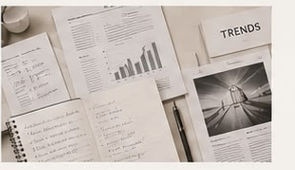
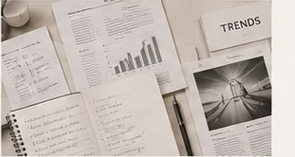
project1 p4/p5/hero: test box photos, hero sizing, creative image, trim bezels
- page4 THE TEST box: replace 6-photo grid with 2 stacked photos
  (group picture above, feedback form below), native aspects, drop 4 old
  PNGs; sync Sanity testPhotos 6->2 with same assets
- page1 hero: nudge heading down, step font size text-4xl/6xl -> 3xl/5xl
- page5 learnings: swap CREATIVE THINKING image to page5_creative_thinking
  (local + p5LearningImages fallback), remove page5_creative_fuji
- page5 learnings: trim baked-in white bezel bands from research/strategy/
  brand images (content-only rows, 0 residual)

diff --git a/src/pages/ProjectMarketingPage.tsx b/src/pages/ProjectMarketingPage.tsx
@@ -52,10 +52,6 @@ export const ProjectMarketingPage: React.FC = () => {
 
   // Page 4 test photos: Sanity may hydrate without `src`, so fall back to the local assets.
   const p4PhotoFallbacks = [
-    '/portfolio-assets/project-1/page4_product_display.png',
-    '/portfolio-assets/project-1/page4_consumer_interaction.png',
-    '/portfolio-assets/project-1/page4_fragrance_samples.png',
-    '/portfolio-assets/project-1/page4_feedback.png',
     '/portfolio-assets/project-1/page4_testing_setup.jpeg',
     '/portfolio-assets/project-1/page4_consumer_feedback.jpeg'
   ];
@@ -64,7 +60,7 @@ export const ProjectMarketingPage: React.FC = () => {
   const p5LearningImages = [
     '/portfolio-assets/project-1/page5_research_papers.png',
     '/portfolio-assets/project-1/page5_strategy_notebook.png',
-    '/portfolio-assets/project-1/page5_creative_fuji.png',
+    '/portfolio-assets/project-1/page5_creative_thinking.jpeg',
     '/portfolio-assets/project-1/page5_brand_bag.png'
   ];
 
@@ -112,8 +108,8 @@ export const ProjectMarketingPage: React.FC = () => {
           </div>
         </div>
         {/* Hero heading overlay — moved up (tighter top spacing) */}
-        <div className="max-w-4xl mx-auto text-center pt-0 -mt-2 sm:-mt-4">
-          <h1 className="font-serif-display font-bold text-[var(--c-ink)] leading-[1.02] tracking-tight text-4xl sm:text-6xl drop-shadow-[0_1px_0_rgba(255,255,255,0.35)]">
+        <div className="max-w-4xl mx-auto text-center pt-0 -mt-4 sm:-mt-8">
+          <h1 className="font-serif-display font-bold text-[var(--c-ink)] leading-[1.02] tracking-tight text-3xl sm:text-5xl drop-shadow-[0_1px_0_rgba(255,255,255,0.35)]">
             A New Dimension of Life Wear : UNIQLO Fragrances
           </h1>
         </div>
@@ -561,21 +557,21 @@ export const ProjectMarketingPage: React.FC = () => {
             <div className="grid grid-cols-1 lg:grid-cols-12 gap-8 items-start mb-10">
 
               {/* ------------------------------------------------------------- */}
-              {/* COLUMN 1: THE TEST (2x2 Photo Grid)                           */}
+              {/* COLUMN 1: THE TEST (Stacked: group picture, feedback form)    */}
               {/* ------------------------------------------------------------- */}
               <div className="lg:col-span-5 bg-white border-[1.5px] border-[var(--c-ink)] rounded-2xl p-6 paper-shadow">
                 <h3 className="font-mono-code text-sm font-bold uppercase tracking-wider text-[var(--c-ink)] mb-4 pb-2 border-b border-[var(--c-ink)]/15">
                   {u.p4TestHeader}
                 </h3>
 
-                <div className="grid grid-cols-2 gap-4">
+                <div className="grid grid-cols-1 gap-5">
                   {p4.testPhotos.map((photo, pIdx) => (
                     <div key={pIdx} className="space-y-1.5">
                       <PlaceholderImage
                         src={photo.src || p4PhotoFallbacks[pIdx]}
                         label={photo.caption}
                         alt={photo.caption}
-                        aspect="aspect-[4/5]"
+                        aspect={pIdx === 0 ? 'aspect-[1562/1600]' : 'aspect-[822/1166]'}
                       />
                       <span className="font-mono-code text-xs font-bold text-[var(--c-ink)] block leading-tight">
                         {photo.caption}

diff --git a/src/data/portfolioData.ts b/src/data/portfolioData.ts
@@ -334,33 +334,13 @@ export const portfolioData = {
       subtitle: "WE DIDN'T JUST CREATE IT, WE TESTED IT.",
       testPhotos: [
         {
-          src: "/portfolio-assets/project-1/page4_product_display.png",
-          caption: "Product Display",
-          desc: "Acrylic tester riser with fragrance bottles & branding"
-        },
-        {
-          src: "/portfolio-assets/project-1/page4_consumer_interaction.png",
-          caption: "Consumer Interaction",
-          desc: "Consumers exploring tester strips and sampling aromas"
-        },
-        {
-          src: "/portfolio-assets/project-1/page4_fragrance_samples.png",
-          caption: "Fragrance Samples",
-          desc: "Structural carton prototypes and fragrance box samples"
-        },
-        {
-          src: "/portfolio-assets/project-1/page4_feedback.png",
-          caption: "Feedback",
-          desc: "Gathering direct quantitative & qualitative feedback"
-        },
-        {
           src: "/portfolio-assets/project-1/page4_testing_setup.jpeg",
-          caption: "Testing Setup",
-          desc: "Test station with prototypes, devices & feedback forms ready for consumer sessions"
+          caption: "Group Picture",
+          desc: "Our team at the testing station with prototypes & feedback forms"
         },
         {
           src: "/portfolio-assets/project-1/page4_consumer_feedback.jpeg",
-          caption: "Consumer Feedback",
+          caption: "Feedback Form",
           desc: "Completed product feedback form with ratings & written responses"
         }
       ],
@@ -424,7 +404,7 @@ export const portfolioData = {
           num: "03",
           name: "CREATIVE THINKING",
           detail: "I learned to translate a brand philosophy into a new product and visual identity.",
-          image: "/portfolio-assets/project-1/page5_creative_fuji.png"
+          image: "/portfolio-assets/project-1/page5_creative_thinking.jpeg"
         },
         {
           num: "04",
